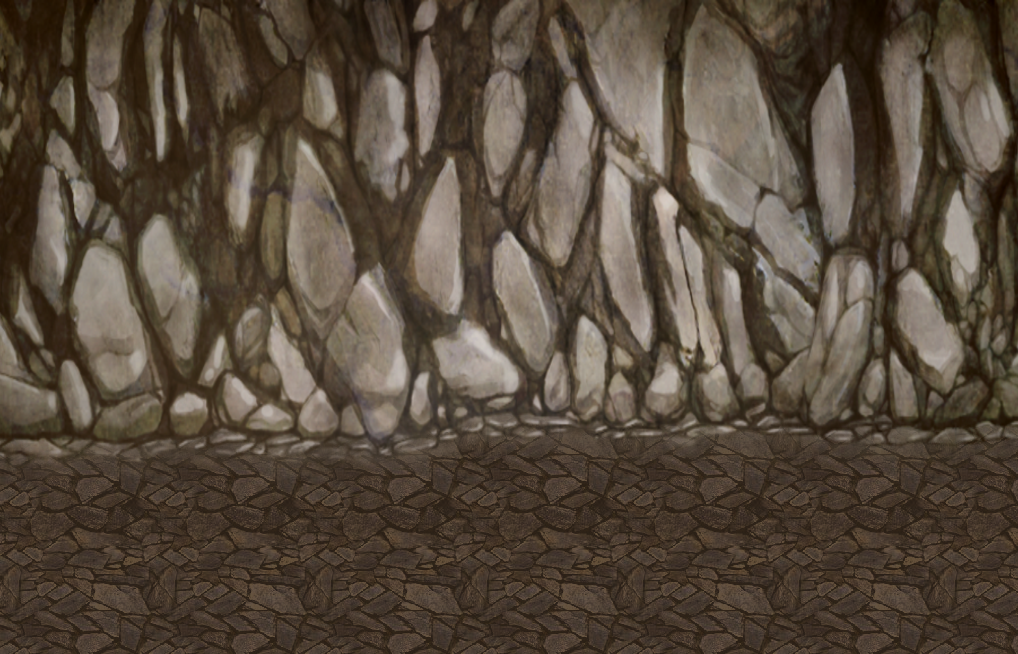
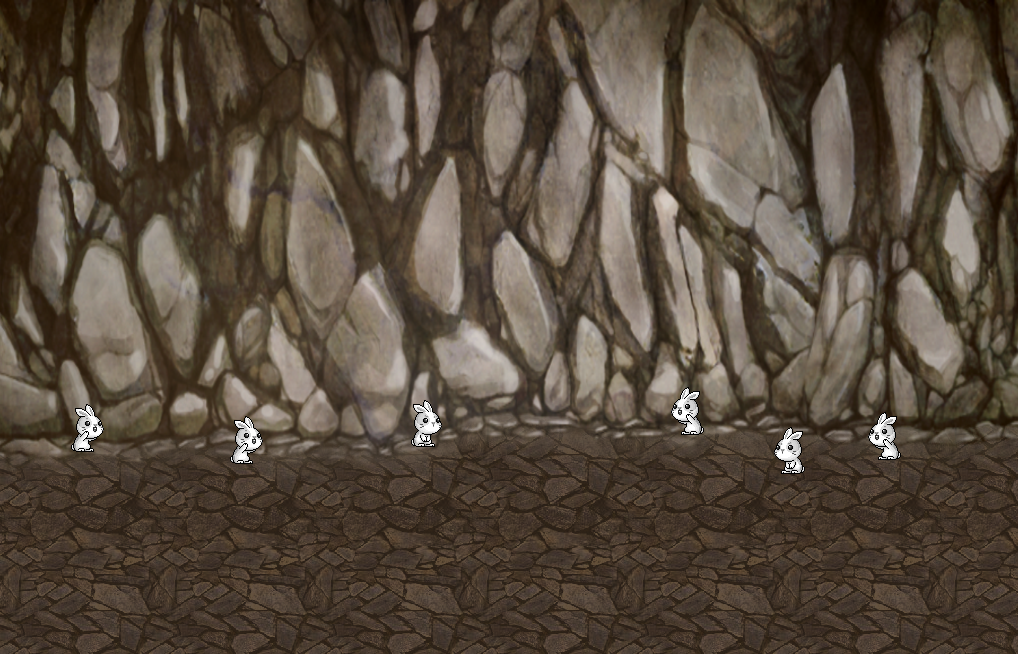
added static bunnies to cave

diff --git a/Prototype/main.js b/Prototype/main.js
@@ -138,6 +138,7 @@ var ASSET_MANAGER = new AssetManager();
 
 //Rabbit
 ASSET_MANAGER.queueDownload("./imgs/Rabbit/Rev_Bunny.png");
+ASSET_MANAGER.queueDownload("./imgs/Rabbit/cheer_Bunny.png");
 
 //Monsters
 ASSET_MANAGER.queueDownload("./imgs/Monster/wraith.png");
@@ -253,8 +254,10 @@ function initialize (gameEngine, ctx) {
     var corpse = new DeadBunny(gameEngine, ctx, ASSET_MANAGER.getAsset("./imgs/Gameover/deadBunny.png"));
 
     //Rabbits
-    var bunny = new Bunny(gameEngine, ctx, ASSET_MANAGER.getAsset("./imgs/Rabbit/Rev_Bunny.png"), wraith, score, vignette); 
+    var bunny = new Bunny(gameEngine, ctx, ASSET_MANAGER.getAsset("./imgs/Rabbit/Rev_Bunny.png"), wraith, score, vignette);
 
+    //var cheer = new Pickup(gameEngine, ctx, ASSET_MANAGER.getAsset("./imgs/Rabbit/cheer_Bunny.png"), 251, 284, 58, 58, .45, 2, true, false, 2, .02, 475, 475, "notgold"); 
+    
     //gameEngine.addEntity(pause_back);
     gameEngine.addEntity(pause_back);
     gameEngine.addEntity(death);
@@ -278,12 +281,12 @@ function initialize (gameEngine, ctx) {
     gameEngine.addEntity(mstump);
     gameEngine.addEntity(lstump);
 
-    
     gameEngine.addEntity(bear);
     gameEngine.addEntity(crow);
     gameEngine.addEntity(hawk);
     gameEngine.addEntity(stumpy);
     gameEngine.addEntity(snake);
+    //gameEngine.addEntity(cheer);
 
     // if (getRandomInt(0, 1) === 0) {
     //     gameEngine.addEntity(wraith);
@@ -329,6 +332,8 @@ function bonus (game, ctx) {
         gold = new Pickup(game, ctx, ASSET_MANAGER.getAsset("./imgs/Pickups/goldCarrot.png"), 0, 0, 39, 62, .15, 5, true, true, 2, 1, 1000 + 100 * i, 475, "gold");
         game.addEntity(gold);
     }
+    // var cheer = new Pickup(gameEngine, ctx, ASSET_MANAGER.getAsset("./imgs/Rabbit/cheer_Bunny.png"), 251, 284, 58, 58, .45, 2, true, false, 2, .02, 475, 475, "notgold"); 
+    // game.addEntity(cheer);
 }
 
 function backup (game, ctx) {

diff --git a/Prototype/CheerBunny.js b/Prototype/CheerBunny.js
@@ -1,0 +1,45 @@
+/***************
+ * Cheer Bunny *
+ ***************/
+
+function CheerBunny(game, ctx, spriteSheet, startX, startY, frameWidth, frameHeight, frameDuration, frames, loop, reverse, speed, scale, x, y, type) {
+    this.game = game;
+    this.ctx = ctx;
+    this.spriteSheet = spriteSheet;
+    this.startX = startX;
+    this.startY = startY;
+    this.frameWidth = frameWidth;
+    this.frameHeight = frameHeight;
+    this.frameDuration = frameDuration;
+    this.frames = frames;
+    this.loop = loop;
+    this.reverse = reverse;
+    this.speed = speed;
+    this.scale = scale;
+    this.boundingBox = {x: frameWidth, y: frameHeight};
+    this.animation = new Animation(spriteSheet, startX, startY, frameWidth, frameHeight, frameDuration, frames, loop, reverse);
+    this.x = x;
+    this.y = y;
+    this.type = type;
+    Entity.call(this, this.game, this.x, this.y); // y == the sprites gound
+}
+
+CheerBunny.prototype = new Entity();
+CheerBunny.prototype.constructor = CheerBunny;
+
+CheerBunny.prototype.update = function () {
+    if (this.game.running) {
+        this.x -= this.game.clockTick * this.speed * 200;
+        if (this.x < -120) {
+            this.x = 1018;
+        }
+        Entity.prototype.update.call(this);
+    }
+}
+
+CheerBunny.prototype.draw = function (ctx) {
+    if (this.game.running) {
+        this.animation.drawFrame(this.game.clockTick, this.ctx, this.x, this.y);
+        Entity.prototype.draw.call(this);
+    }
+}
